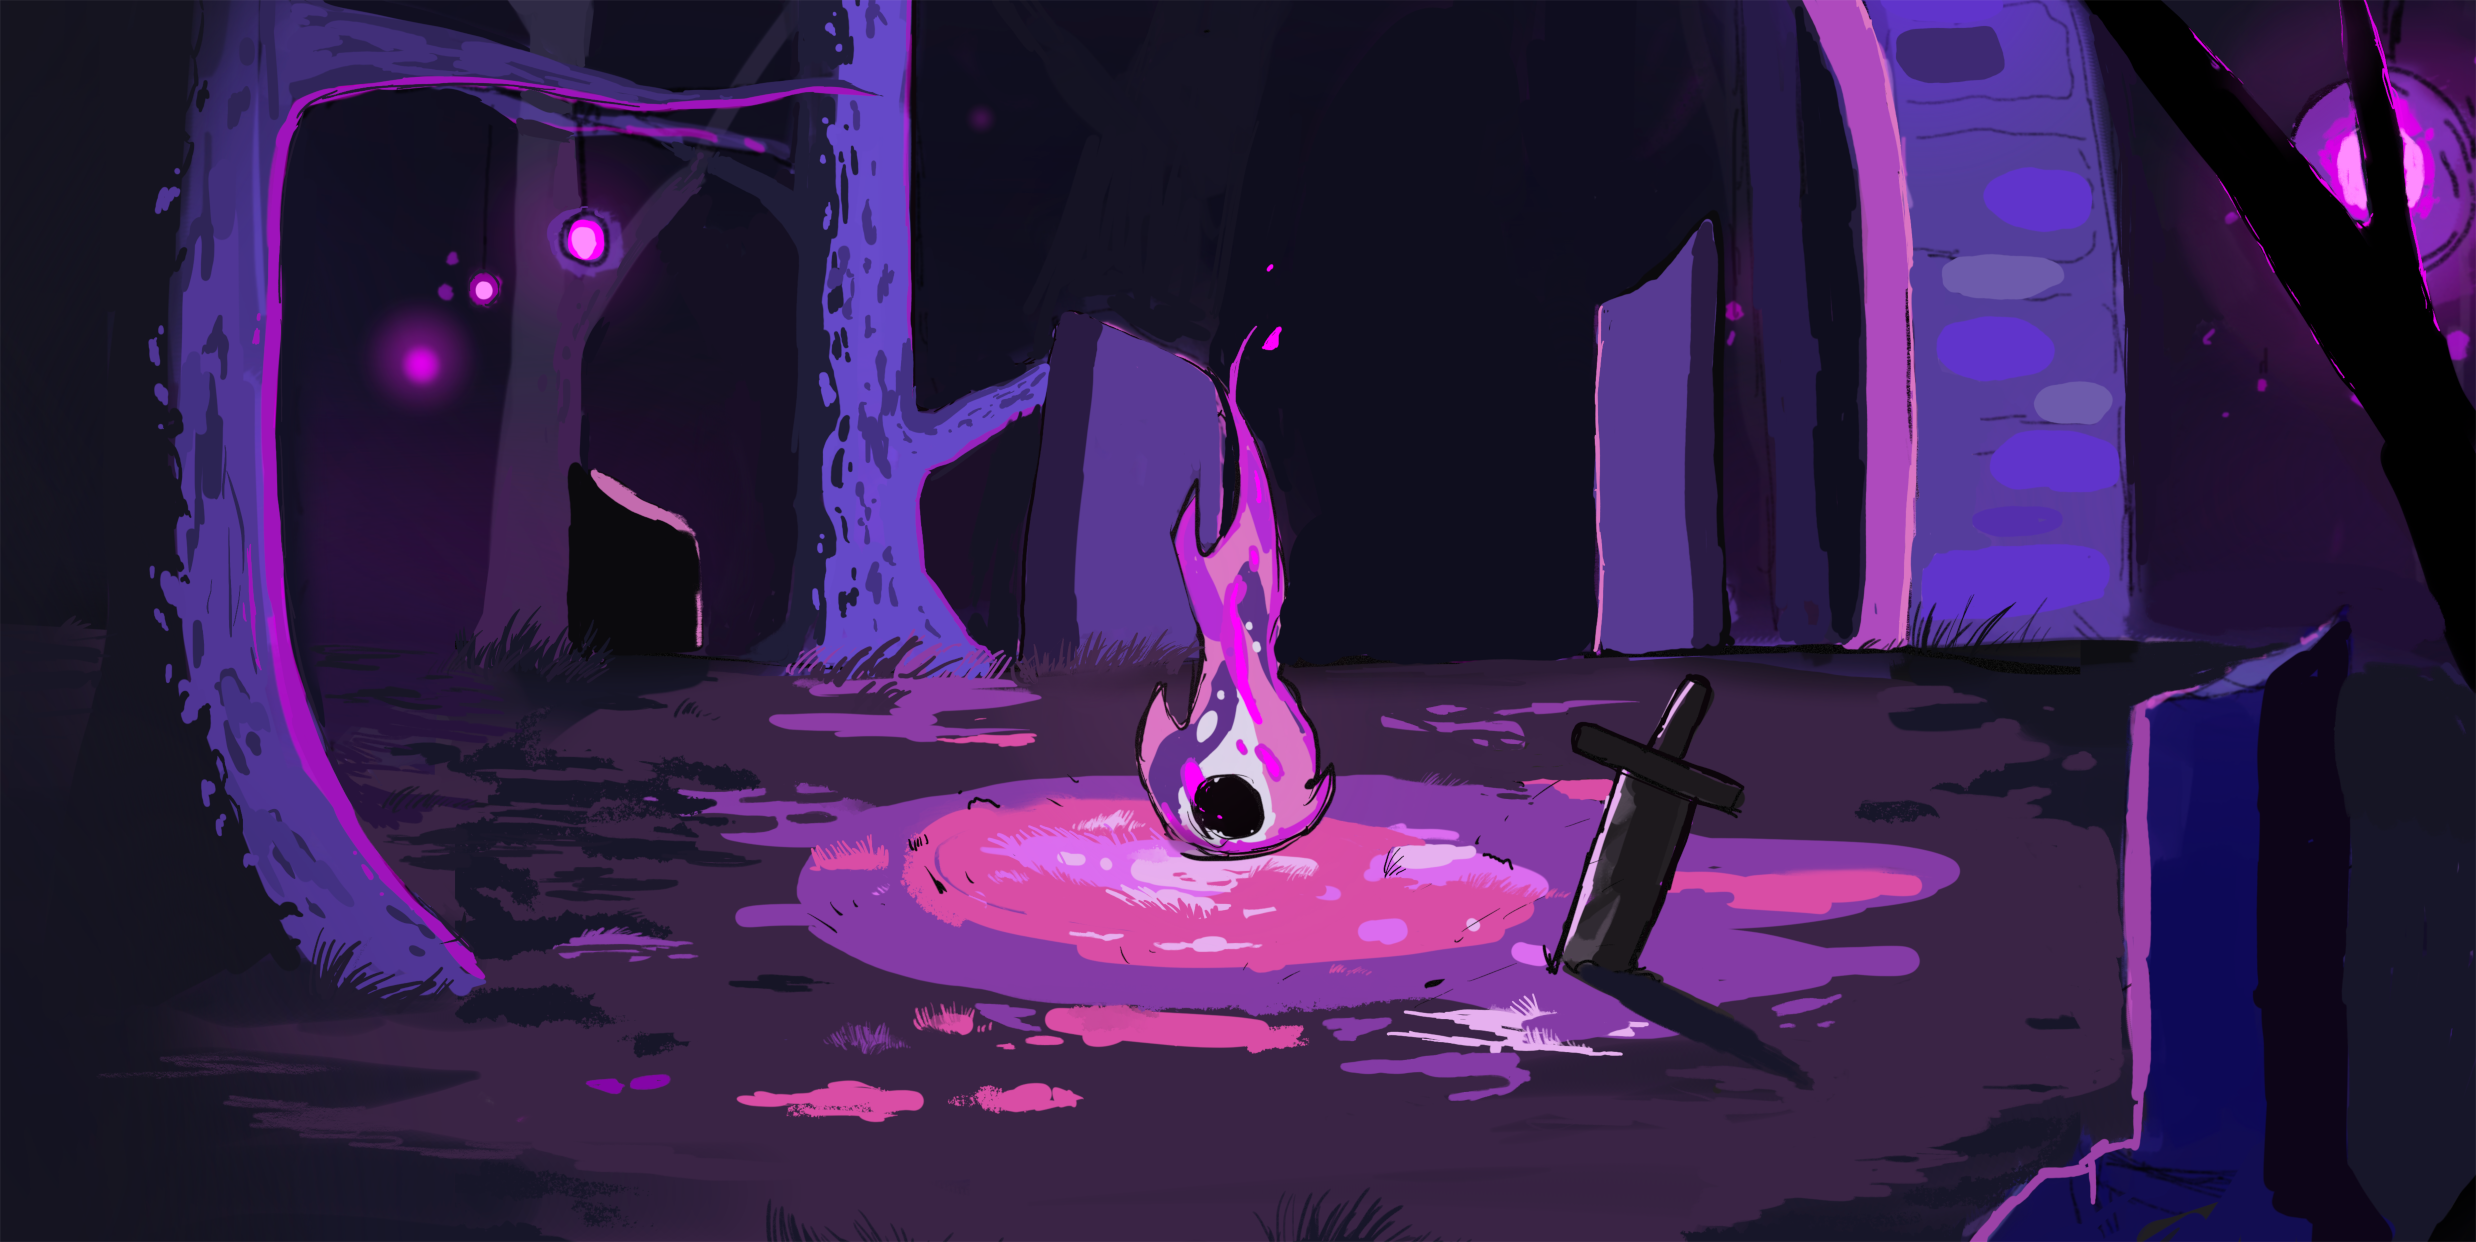
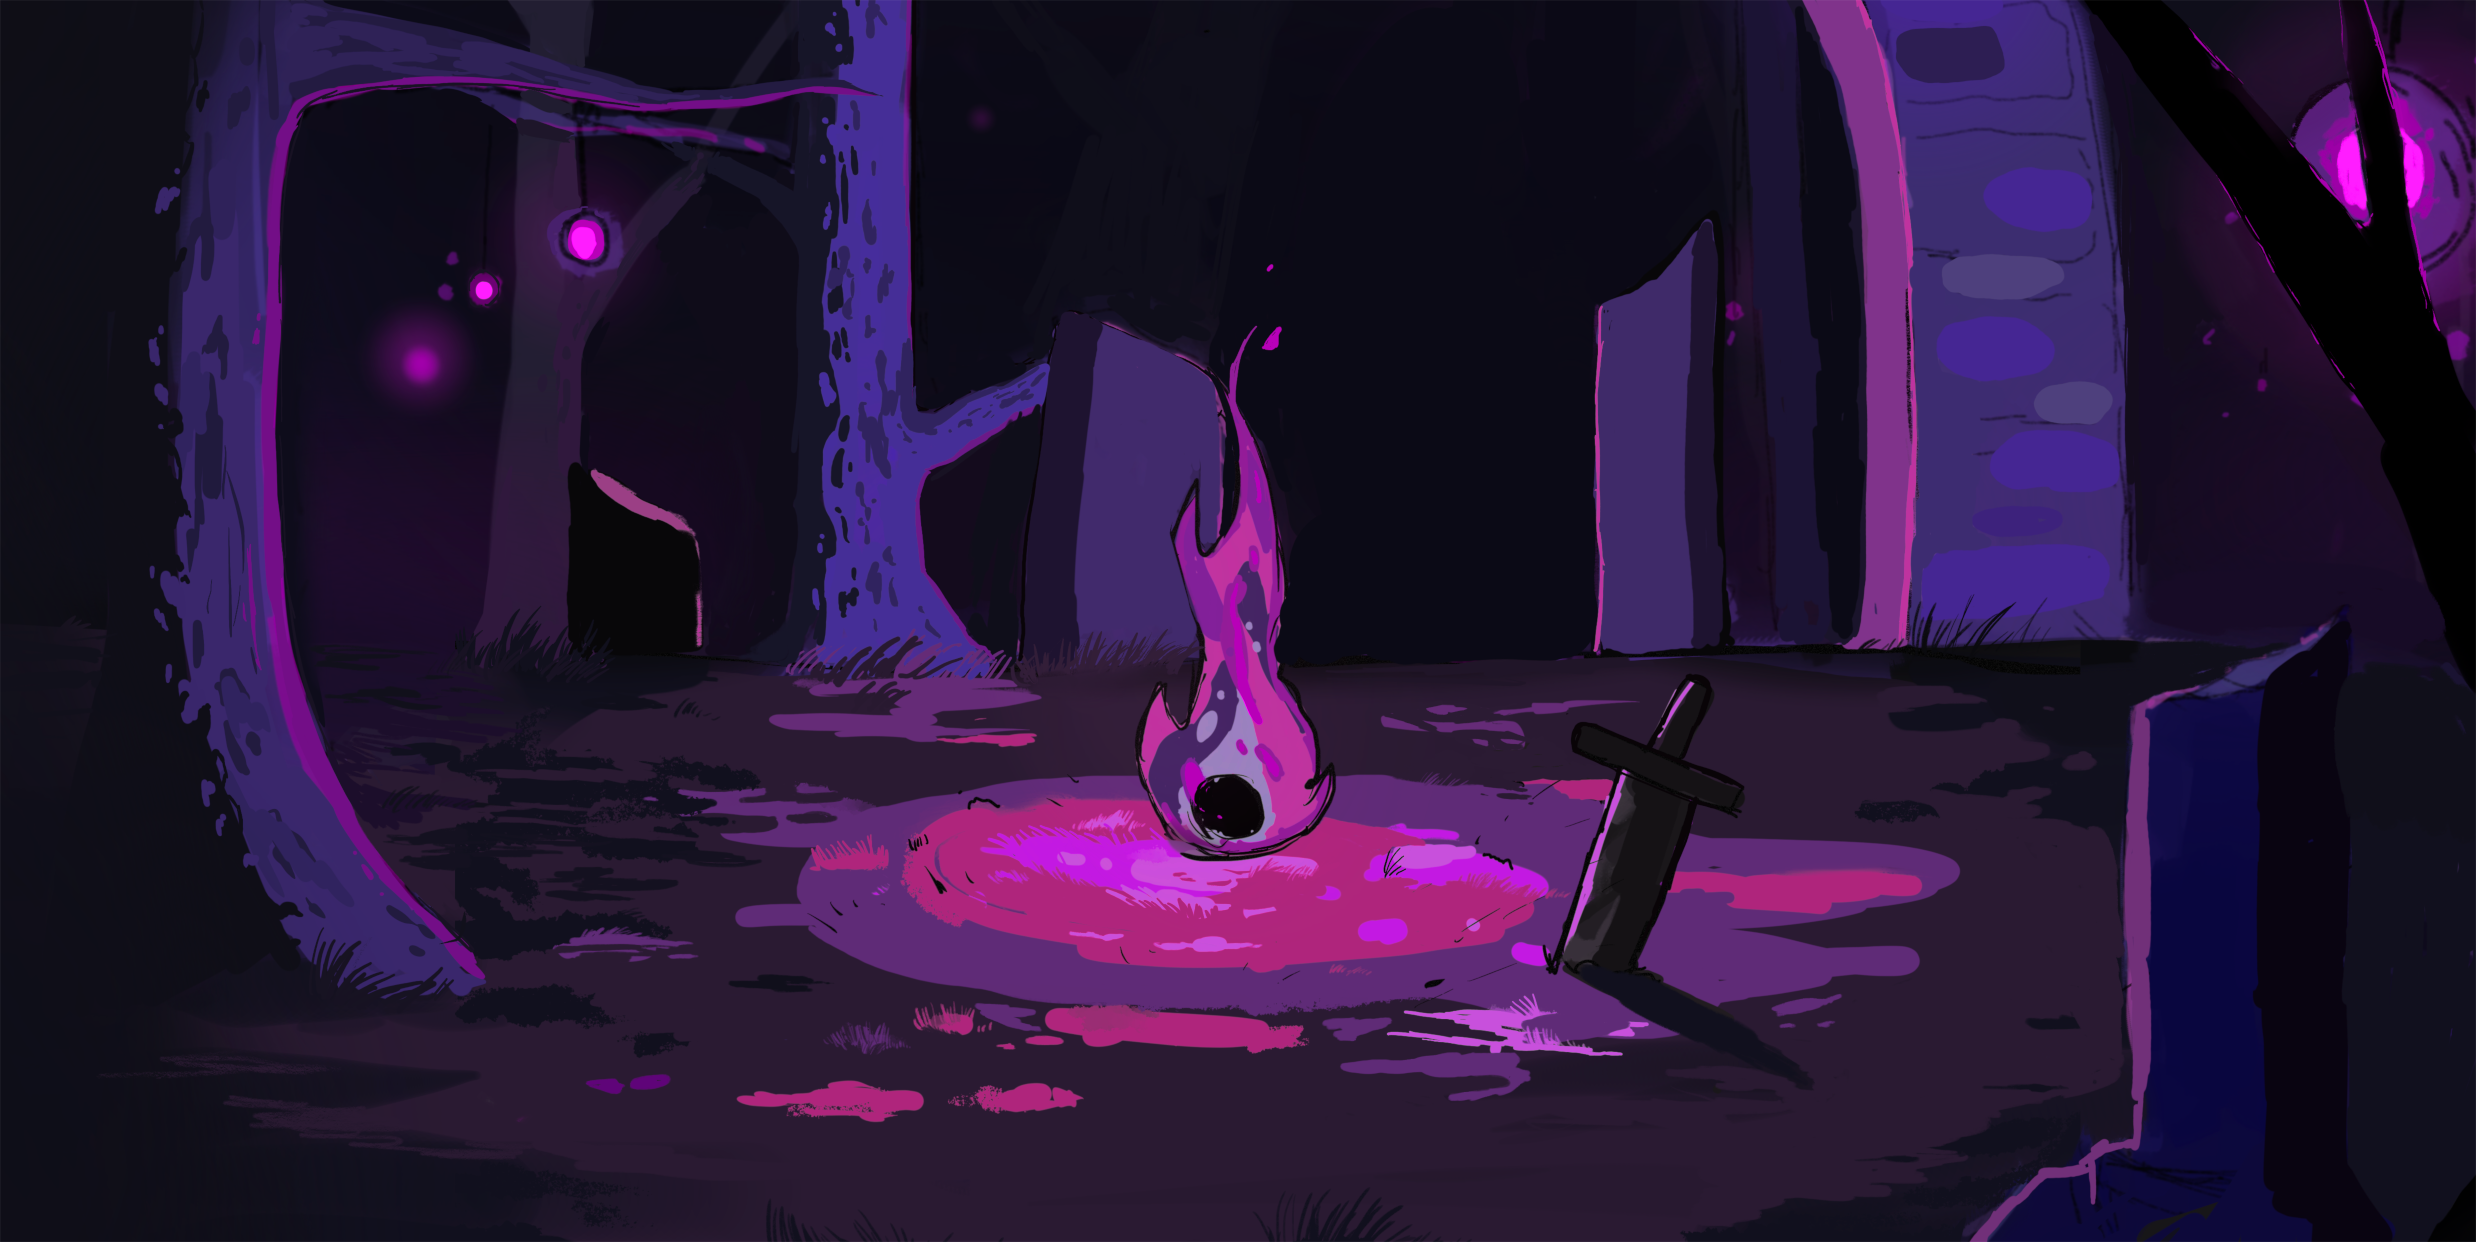
Darker BG

diff --git a/Pages/AndTheWorldWentDark.html b/Pages/AndTheWorldWentDark.html
@@ -343,6 +343,10 @@
 </div>
 
 
+<div class="PAGE_SPACER"></div>
+<hr class="line_dash_medium">
+<div class="PAGE_SPACER"></div>
+
 
 <div class="subpage-text-body">
     
